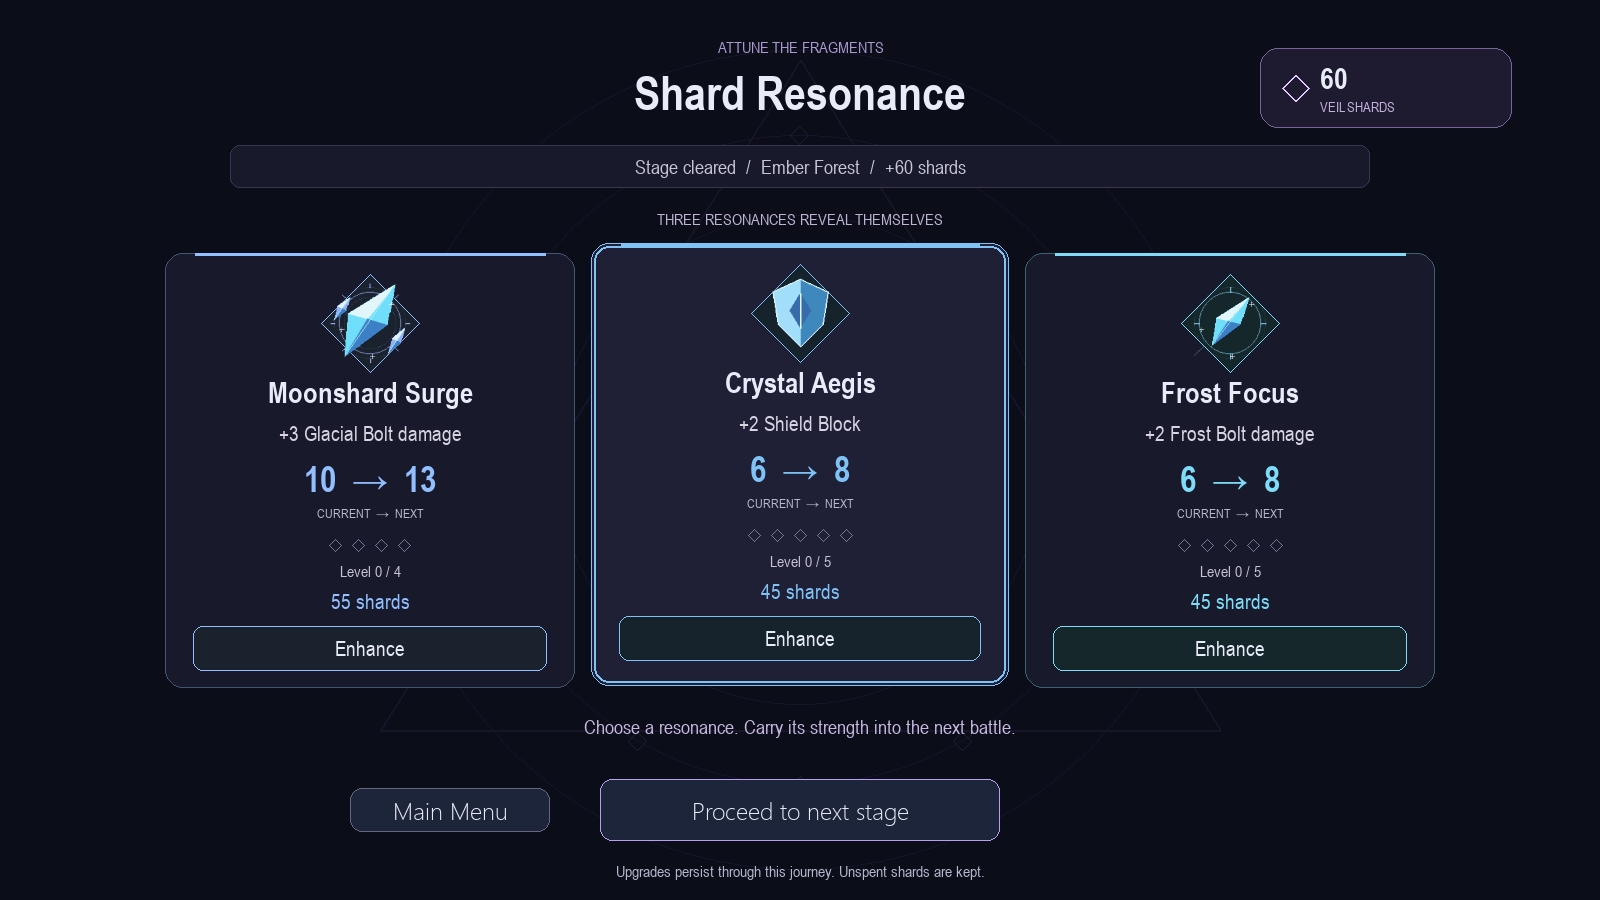
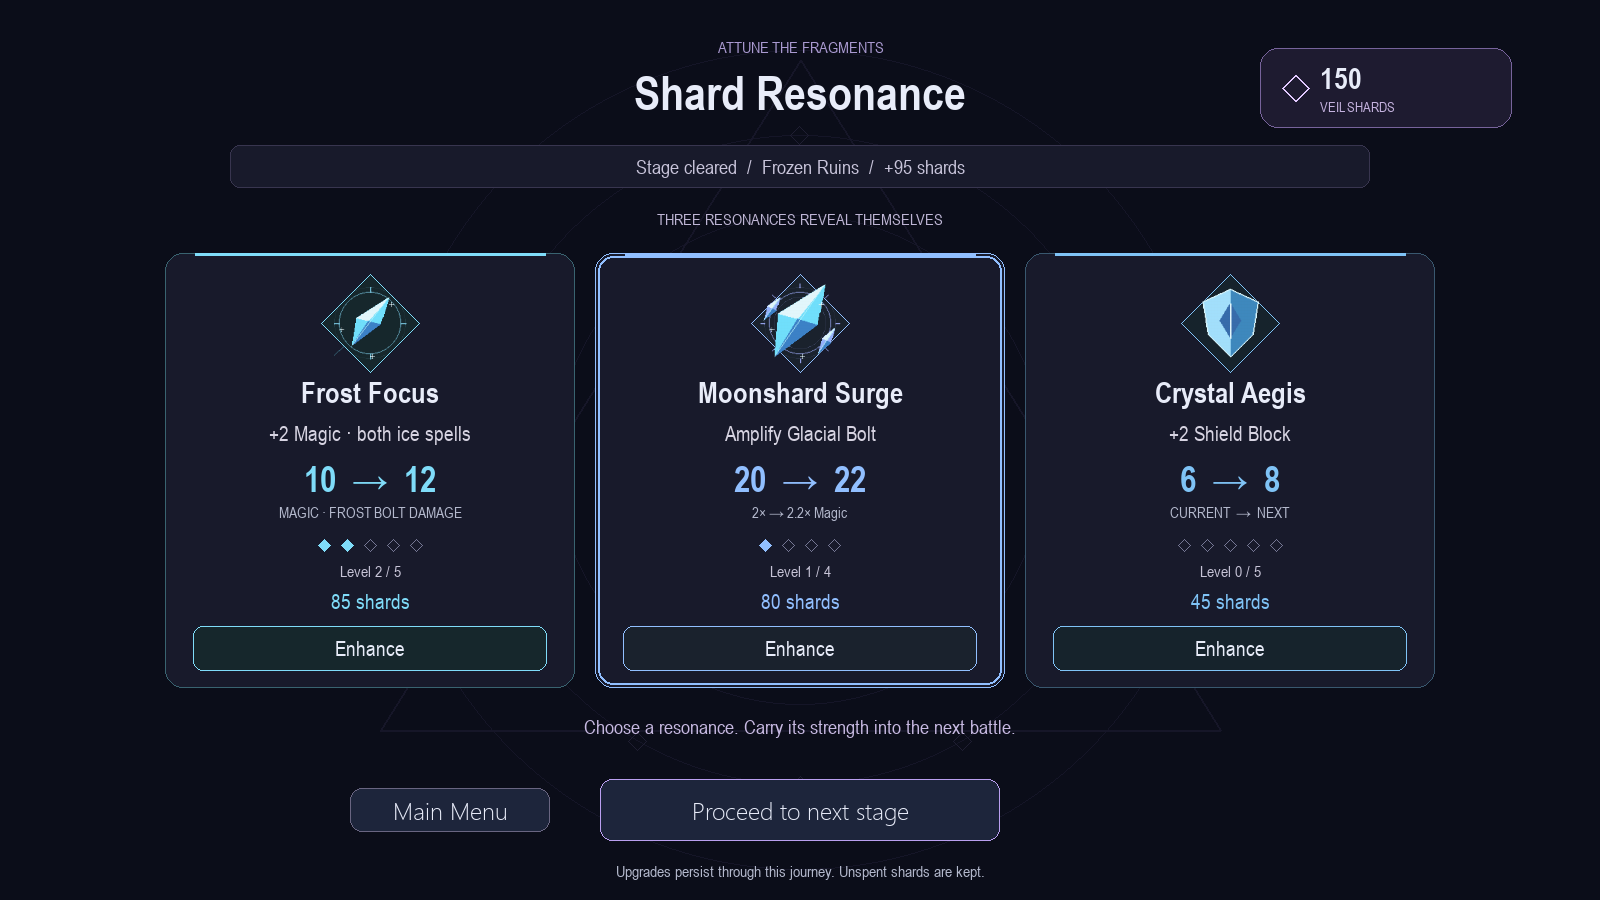
Scale Glacial Bolt with shared Magic and Moonshard tiers

diff --git a/src/scenes/campaign.py b/src/scenes/campaign.py
@@ -2,6 +2,8 @@ from src.cards.models import Card
 from src.combat.battle import Battle
 from src.core.resources import read_data
 
+GLACIAL_PERCENT = (180, 200, 220, 235, 250)
+
 SHOP_CATALOG = {
     "hp": {
         "name": "Vital Infusion",
@@ -12,7 +14,7 @@ SHOP_CATALOG = {
     },
     "attack": {
         "name": "Frost Focus",
-        "desc": "Frost Bolt deals +2 damage",
+        "desc": "+2 Magic for both ice spells",
         "base_cost": 45,
         "cost_inc": 20,
         "max_level": 5,
@@ -26,7 +28,7 @@ SHOP_CATALOG = {
     },
     "heavy": {
         "name": "Moonshard Surge",
-        "desc": "Glacial Bolt deals +3 damage",
+        "desc": "Increase Glacial Bolt Magic multiplier",
         "base_cost": 55,
         "cost_inc": 25,
         "max_level": 4,
@@ -73,22 +75,34 @@ class Campaign:
         self.last_battle_result = None
         self.scene = "intro"
 
+    def player_magic(self) -> int:
+        """Shared ice-spell power, derived from editable base Frost Bolt damage."""
+        base = next(card.amount for card in self.cards if card.id == "attack")
+        return base + self.upgrades.get("attack", 0) * 2
+
+    def glacial_multiplier(self, level: int | None = None) -> float:
+        level = self.upgrades.get("heavy", 0) if level is None else level
+        return GLACIAL_PERCENT[max(0, min(level, len(GLACIAL_PERCENT) - 1))] / 100
+
+    def glacial_damage(self, level: int | None = None) -> int:
+        level = self.upgrades.get("heavy", 0) if level is None else level
+        percent = GLACIAL_PERCENT[max(0, min(level, len(GLACIAL_PERCENT) - 1))]
+        # Nearest whole damage; exact halves round up, without float drift.
+        return (self.player_magic() * percent + 50) // 100
+
     def active_cards(self) -> list[Card]:
         upgraded = []
         for c in self.cards:
-            bonus = 0
-            if c.id == "attack": bonus = self.upgrades.get("attack", 0) * 2
-            elif c.id == "shield": bonus = self.upgrades.get("shield", 0) * 2
-            elif c.id == "heavy": bonus = self.upgrades.get("heavy", 0) * 3
-            elif c.id == "heal": bonus = self.upgrades.get("heal", 0) * 2
-            amount = c.amount + bonus
+            level = self.upgrades.get(c.id, 0)
+            if c.id == "attack": amount = self.player_magic()
+            elif c.id == "heavy": amount = self.glacial_damage()
+            elif c.id in ("shield", "heal"): amount = c.amount + level * 2
+            else: amount = c.amount
             desc = c.description
-            if bonus > 0:
-                if c.category == "attack": desc = f"Deal {amount} damage."
-                elif c.category == "block": desc = f"Gain {amount} Block."
-                elif c.category == "heal": desc = f"Recover up to {amount} HP."
-            plus = ("+" * (bonus // 2 if c.id != "heavy" else bonus // 3)) if bonus > 0 else ""
-            upgraded.append(Card(c.id, c.name + plus, c.cost, c.category, amount, desc, c.count))
+            if c.category == "attack": desc = f"Deal {amount} damage."
+            elif c.category == "block": desc = f"Gain {amount} Block."
+            elif c.category == "heal": desc = f"Recover up to {amount} HP."
+            upgraded.append(Card(c.id, c.name + "+" * level, c.cost, c.category, amount, desc, c.count))
         return upgraded
 
     def player_max_hp(self) -> int:

diff --git a/src/ui/shard_resonance.py b/src/ui/shard_resonance.py
@@ -10,8 +10,8 @@ MUTED=(180,185,205)
 
 ACCENTS = {"hp":(241,133,161), "attack":FROST, "shield":(127,195,246),
            "heavy":GLACIAL, "heal":(129,221,173), "energy":(238,206,125)}
-SUMMARY = {"hp":"+5 maximum health", "attack":"+2 Frost Bolt damage", "shield":"+2 Shield Block",
-           "heavy":"+3 Glacial Bolt damage", "heal":"+2 healing", "energy":"+1 energy on the first turn"}
+SUMMARY = {"hp":"+5 maximum health", "attack":"+2 Magic · both ice spells", "shield":"+2 Shield Block",
+           "heavy":"Amplify Glacial Bolt", "heal":"+2 healing", "energy":"+1 energy on the first turn"}
 
 
 def diamond(surface, color, center, radius, width=0):
@@ -88,8 +88,11 @@ class ShardResonance:
     def values(self,c,key):
         if key=="hp": return c.player_max_hp(),5
         if key=="energy": return 2+c.upgrades[key],1
+        if key=="heavy":
+            current=c.glacial_damage()
+            return current,c.glacial_damage(c.upgrades[key]+1)-current
         card=next(card for card in c.active_cards() if card.id==key)
-        return card.amount,3 if key=="heavy" else 2
+        return card.amount,2
 
     def icon(self,s,key,center,color):
         diamond(s,tuple(int(v*.18) for v in color),center,49)
@@ -135,7 +138,12 @@ class ShardResonance:
             current,step=self.values(c,key)
             preview=f"{current}  →  {current+step}" if not maxed else str(current)
             ui.text(s,preview,(x,y+226),36,color,True)
-            ui.text(s,"CURRENT  →  NEXT" if not maxed else "FULLY ATTUNED",(x,y+259),13,MUTED,True)
+            detail="CURRENT  →  NEXT" if not maxed else "FULLY ATTUNED"
+            if key=="heavy":
+                multiplier=lambda n: f"{c.glacial_multiplier(n):.2f}".rstrip("0").rstrip(".")
+                detail=f"{multiplier(level)}× Magic" if maxed else f"{multiplier(level)}× → {multiplier(level+1)}× Magic"
+            elif key=="attack": detail="MAGIC · FROST BOLT DAMAGE"
+            ui.text(s,detail,(x,y+259),15,MUTED,True)
             for j in range(maximum):
                 diamond(s,color if j<level else (117,119,148),(x+(j-(maximum-1)/2)*23,y+292),6,0 if j<level else 1)
             ui.text(s,f"Level {level} / {maximum}",(x,y+318),16,(199,196,215),True)

diff --git a/tests/test_glacial_scaling.py b/tests/test_glacial_scaling.py
@@ -1,0 +1,47 @@
+import pytest
+from src.scenes.campaign import Campaign
+from src.ui.shard_resonance import ShardResonance
+
+
+@pytest.mark.parametrize("focus,expected", [(0, [11,12,13,14,15]), (2, [18,20,22,24,25]), (5, [29,32,35,38,40])])
+def test_glacial_scaling_and_preview(focus, expected):
+    c = Campaign()
+    c.upgrades["attack"] = focus
+    for level, damage in enumerate(expected):
+        c.upgrades["heavy"] = level
+        cards = {card.id: card for card in c.active_cards()}
+        assert cards["attack"].amount == c.player_magic() == 6 + focus * 2
+        assert cards["heavy"].amount == damage
+        assert cards["heavy"].description == f"Deal {damage} damage."
+        current, step = ShardResonance.values(None, c, "heavy")
+        assert current == damage
+        assert current + step == expected[min(level + 1, 4)]
+        assert cards["heavy"].cost == 2 and cards["heavy"].count == 2
+
+
+def test_purchase_order_and_actual_battle_damage():
+    a, b = Campaign(), Campaign()
+    for c, order in ((a, ["attack", "heavy"]), (b, ["heavy", "attack"])):
+        c.shards = 100
+        for key in order: assert c.buy(key)
+        assert c.shards == 0 and c.player_magic() == 8
+        assert c.glacial_damage() == 16
+        c.enter_battle(seed=7)
+        c.battle.deck.hand = [next(card for card in c.active_cards() if card.id == "heavy")]
+        c.battle.enemy.block = 3
+        hp = c.battle.enemy.hp
+        c.battle.play(0)
+        assert c.battle.enemy.hp == hp - 13 and c.battle.enemy.block == 0
+        assert c.battle.energy == 0
+    assert a.active_cards() == b.active_cards()
+
+
+def test_attack_uses_editable_base_and_upgrades_do_not_mutate_templates():
+    from dataclasses import replace
+    c = Campaign()
+    original = list(c.cards)
+    c.cards = [replace(card, amount=7) if card.id == "attack" else card for card in c.cards]
+    c.upgrades["heavy"] = 4
+    assert c.player_magic() == 7 and c.glacial_damage() == 18
+    c.active_cards()
+    assert next(card for card in c.cards if card.id == "heavy") == original[1]

diff --git a/tests/test_shard_resonance.py b/tests/test_shard_resonance.py
@@ -80,12 +80,12 @@ def test_cancelled_press_and_value_previews(screen):
 def test_ice_identity_preserves_ids_and_scaling(screen):
     from src.ui.resonance_icons import icon_surface
     view,app=screen; c=app.campaign
-    expected={"attack":("Frost Bolt",1,6),"heavy":("Glacial Bolt",2,10),"shield":("Shield",1,6),"heal":("Heal",1,6)}
+    expected={"attack":("Frost Bolt",1,6),"heavy":("Glacial Bolt",2,11),"shield":("Shield",1,6),"heal":("Heal",1,6)}
     for card in c.cards:
         assert (card.name,card.cost,card.amount)==expected[card.id]
     assert [SHOP_CATALOG[k]["name"] for k in ("hp","attack","shield","heavy","heal","energy")]==["Vital Infusion","Frost Focus","Crystal Aegis","Moonshard Surge","Lunar Renewal","Resonance Conduit"]
     c.upgrades["attack"]=2;c.upgrades["heavy"]=2
     cards={card.id:card for card in c.active_cards()}
-    assert cards["attack"].amount==10 and cards["heavy"].amount==16
+    assert cards["attack"].amount==10 and cards["heavy"].amount==22
     assert icon_surface("attack") is icon_surface("attack")
     assert pygame.image.tobytes(icon_surface("attack"),"RGBA")!=pygame.image.tobytes(icon_surface("heavy"),"RGBA")

diff --git a/tests/test_animation_preview.py b/tests/test_animation_preview.py
@@ -82,7 +82,7 @@ def test_stage_one_clips_and_logged_placement(app):
     actor.trigger("idle")
     actor.update(1.5)
     assert actor.state == "idle" and actor.frame() is actor.clips["idle"][0][1]
-    for kind, damage in (("attack", 6), ("heavy", 10)):
+    for kind, damage in (("attack", 6), ("heavy", 11)):
         b = app.campaign.battle
         b.energy = 2
         b.deck.hand = [next(c for c in app.campaign.cards if c.id == kind)]

diff --git a/tests/test_combat.py b/tests/test_combat.py
@@ -13,7 +13,7 @@ def campaign():
 def give(c,*ids):
     c.battle.deck.hand=[next(card for card in c.cards if card.id==i) for i in ids]
 
-@pytest.mark.parametrize("card,cost,damage",[("attack",1,6),("heavy",2,10)])
+@pytest.mark.parametrize("card,cost,damage",[("attack",1,6),("heavy",2,11)])
 def test_damage_energy(campaign,card,cost,damage):
     b=campaign.battle; give(campaign,card)
     hp=b.enemy.hp

diff --git a/tests/test_animation_timing.py b/tests/test_animation_timing.py
@@ -25,7 +25,7 @@ def set_card(app,kind):
     app.hand.sync(b.deck.hand)
     return b
 
-@pytest.mark.parametrize("kind,damage,cost",[("attack",6,1),("heavy",10,2)])
+@pytest.mark.parametrize("kind,damage,cost",[("attack",6,1),("heavy",11,2)])
 def test_rapid_card_clicks_resolve_once_at_impact(app,kind,damage,cost):
     b=set_card(app,kind); hp=b.enemy.hp
     click_card(app)

diff --git a/README.md b/README.md
@@ -43,12 +43,12 @@ Between battles, players enter **Shard Resonance** to channel earned Veil Shards
 
 - **Dynamic Attunement Selection**: Presents 3 distinct upgrades tailored each visit, prioritizing non-maxed attributes:
   - **Vital Infusion**: Increases maximum player HP (+5 per tier).
-  - **Frost Focus**: Empowers Frost Bolt damage (+2 per tier).
+  - **Frost Focus**: Increases the shared Magic attribute (+2 per tier), strengthening both Frost Bolt and Glacial Bolt.
   - **Crystal Aegis**: Strengthens Shield block value (+2 per tier).
-  - **Moonshard Surge**: Amplifies Glacial Bolt heavy damage (+3 per tier).
+  - **Moonshard Surge**: Raises Glacial Bolt’s Magic multiplier: **1.8× / 2.0× / 2.2× / 2.35× / 2.5×** at levels 0–4.
   - **Lunar Renewal**: Boosts vital card healing (+2 per tier).
   - **Resonance Conduit**: Grants bonus energy on Turn 1 (+1 energy).
-- **Interactive Upgrade UI**: Interactive selection with hover elevation, diamond tier progression indicators, authoritative current-to-next stat previews (`10 → 13`), and a release-to-confirm Enhance button with cooldown protection and particle glow.
+- **Interactive Upgrade UI**: Interactive selection with hover elevation, diamond tier progression indicators, authoritative current-to-next stat previews (damage and Magic multiplier), and a release-to-confirm Enhance button with cooldown protection and particle glow.
 - **Journey Progression & Retry Flow**: Earn Veil Shards from victory or defeat based on performance. Players can proceed forward upon victory, retry the current stage upon defeat, or return to previously cleared stages for half rewards to reinforce their build.
 
 ---
@@ -57,10 +57,12 @@ Between battles, players enter **Shard Resonance** to channel earned Veil Shards
 
 Combat cards carry a cohesive crystalline ice theme with custom procedural icon art and dynamic typography:
 
-- **Frost Bolt** (1 Cost): Fast offensive spell dealing reliable base damage (upgradable via *Frost Focus*).
-- **Glacial Bolt** (2 Cost): Heavy strike triggering amplified camera impact recoil, bold damage popups, and hit-stun (upgradable via *Moonshard Surge*).
+- **Frost Bolt** (1 Cost): Deals damage equal to Magic: starts at 6, reaches 16 with max *Frost Focus*.
+- **Glacial Bolt** (2 Cost): Deals Magic × the *Moonshard Surge* multiplier, rounded to the nearest integer (halves up). Starts at 11 damage (6 × 1.8), reaching 40 with both offensive upgrades maxed (16 × 2.5). Existing heavy impact effects and animation timing are preserved.
 - **Shield** (1 Cost): Barrier granting Block that absorbs incoming damage before HP (upgradable via *Crystal Aegis*).
 - **Heal** (1 Cost): Vital restoration recovering lost health capped at maximum HP (upgradable via *Lunar Renewal*).
+
+At level 0, Glacial Bolt costs two energy for less damage than two Frost Bolts; its multiplier reaches parity at level 1 and exceeds it at later levels. Both offensive upgrades work together; shard costs and level caps are unchanged.
 
 Cards are drawn from a 12-card starting deck (3 cards drawn per turn, 2 starting energy) and presented in a shallow 7-degree fan with lift-on-hover, affordability shading, and smooth dissolve animation upon play.
 
@@ -101,7 +103,7 @@ On macOS/Linux, use `.venv/bin/python` in place of `.\.venv\Scripts\python`. No 
 The test suite validates pure combat models, animation timing, shard resonance logic, UI integration, and headless rendering:
 
 ```powershell
-# Run the complete test suite (100 tests)
+# Run the complete test suite
 .\.venv\Scripts\python -m pytest -q
 
 # Run headless 120-frame integration check
@@ -125,7 +127,7 @@ src/
 data/                   JSON definitions for cards, enemies, stages, and campaign story
 assets/                 Multi-layer parallax PNGs and organized enemy sprite frame sequences
 docs/                   Design specifications, Blender pipeline, UI contracts, and screenshots
-tests/                  100 automated unit, timing, and integration test modules
+tests/                  Automated unit, timing, and integration tests
 ```
 
 ---
